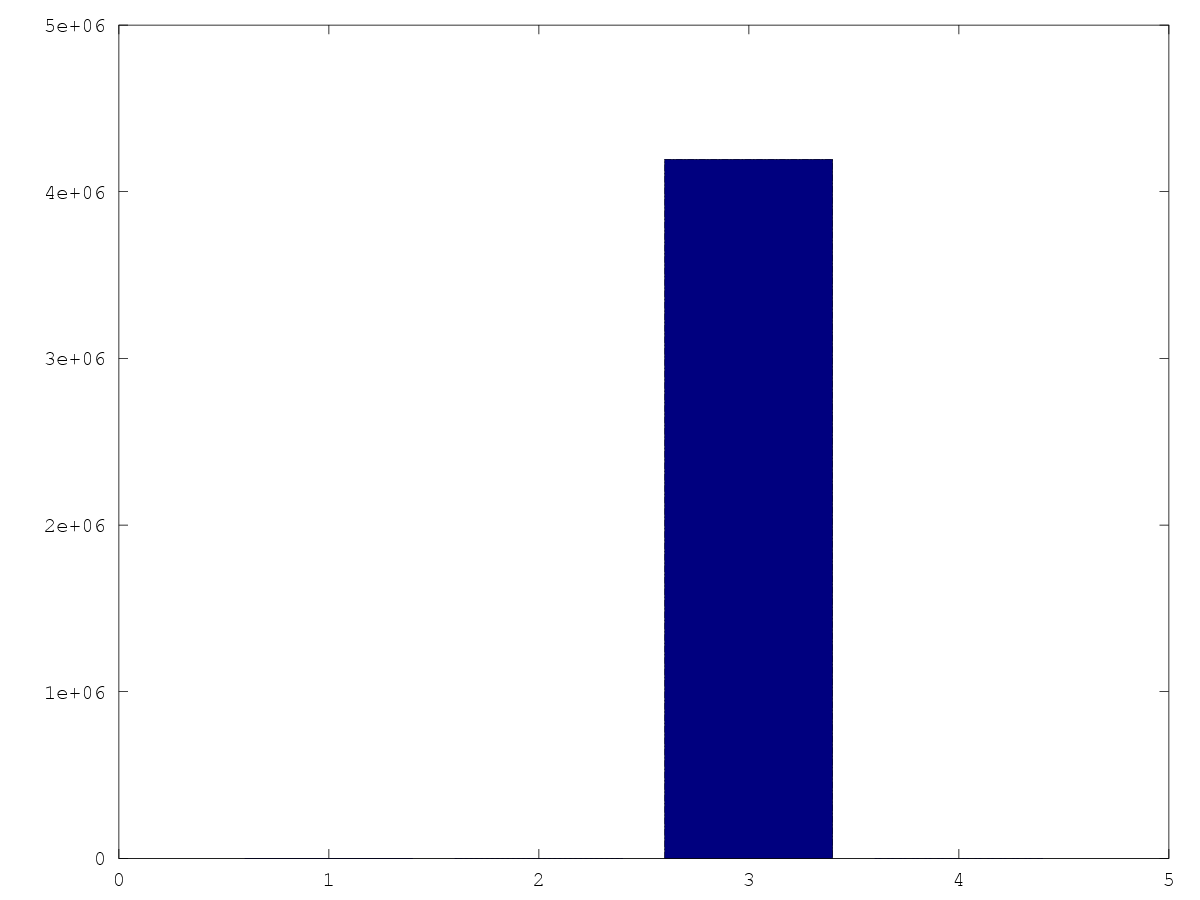
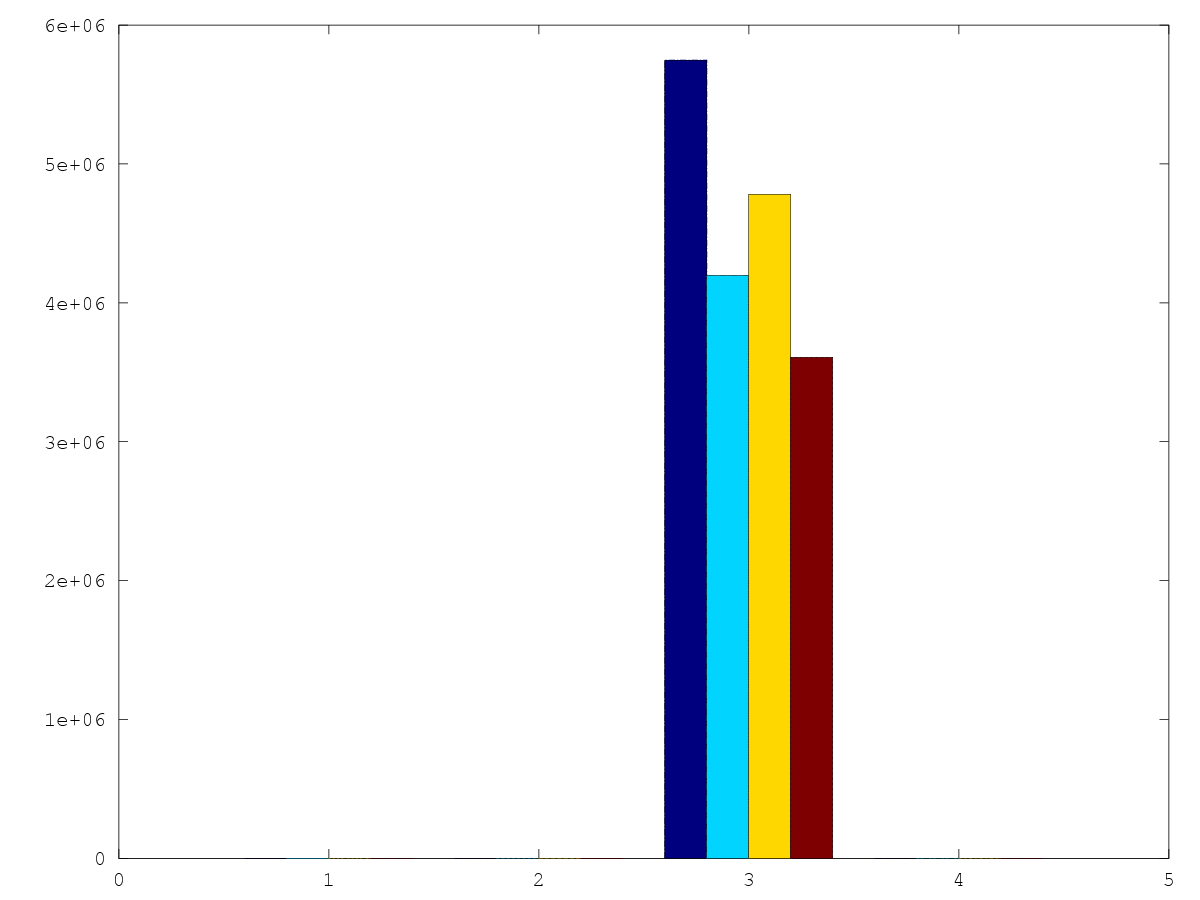
basic.m

diff --git a/basic.m b/basic.m
@@ -225,7 +225,7 @@ xlabel('COPY METHOD');
 ylabel('TIME or KB');
 %legend('PRECOPY', 'POSTCOPY', 'HYBRID', 'PRO-HYBRID');
 %legend('AGGREGATE', 'INDIVIDUAL');
-bar(A(:,2))
+bar(A(:,:))
 
 saveas (1, strcat(output, ".png"));
 saveas (1, strcat(output, ".eps"));
